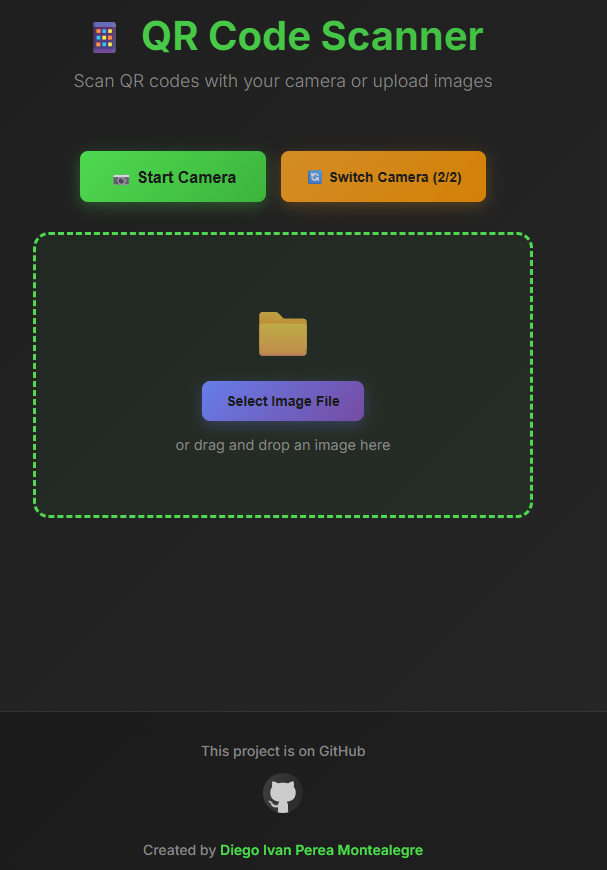
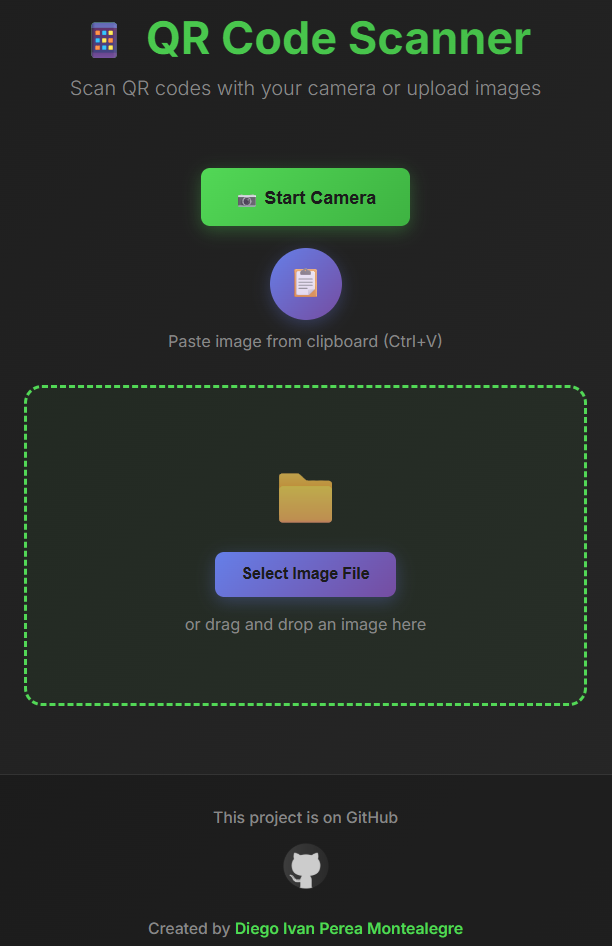
feat: added button pasting ctrl v

diff --git a/src/app/page.js b/src/app/page.js
@@ -23,6 +23,7 @@ const Home = () => {
   const [isDetectingDevices, setIsDetectingDevices] = useState(false);
   const [hasUserInteracted, setHasUserInteracted] = useState(false);
   const [stream, setStream] = useState(null);
+  const [isPasting, setIsPasting] = useState(false);
 
   const handleDevices = (mediaDevices) =>
     setDevices(mediaDevices.filter(({ kind }) => kind === "videoinput"));
@@ -129,6 +130,52 @@ const Home = () => {
   const handleFileUpload = (event) => {
     const file = event.target.files[0];
     processFile(file);
+  };
+
+  const pasteFromClipboard = async () => {
+    if (isPasting) return;
+    setIsPasting(true);
+    setError(null);
+
+    try {
+      if (!navigator.clipboard || !navigator.clipboard.read) {
+        throw new Error("Clipboard API not supported");
+      }
+
+      const clipboardItems = await navigator.clipboard.read();
+      let blob = null;
+
+      for (const item of clipboardItems) {
+        const imageType = item.types.find((type) =>
+          type.startsWith("image/")
+        );
+        if (imageType) {
+          blob = await item.getType(imageType);
+          break;
+        }
+      }
+
+      if (!blob) {
+        setError("No image found in clipboard. Copy an image first.");
+        return;
+      }
+
+      const file = new File([blob], "clipboard-image.png", {
+        type: blob.type || "image/png",
+      });
+      setSuccessMessage("📋 Image pasted from clipboard - Scanning...");
+      setTimeout(() => {
+        setSuccessMessage(null);
+      }, 2000);
+      processFile(file);
+    } catch (error) {
+      console.log("Clipboard error:", error);
+      setError(
+        "Clipboard access denied or not supported. Allow clipboard permission and try again."
+      );
+    } finally {
+      setIsPasting(false);
+    }
   };
 
   const detectDevicesOnUserInteraction = async () => {
@@ -388,6 +435,34 @@ const Home = () => {
     }
   }, [devices]);
 
+  useEffect(() => {
+    const handlePasteEvent = (event) => {
+      const items = event.clipboardData && event.clipboardData.items;
+      if (!items) return;
+
+      for (const item of items) {
+        if (item.type && item.type.startsWith("image/")) {
+          const file = item.getAsFile();
+          if (file) {
+            event.preventDefault();
+            setError(null);
+            setSuccessMessage("📋 Image pasted from clipboard - Scanning...");
+            setTimeout(() => {
+              setSuccessMessage(null);
+            }, 2000);
+            processFile(file);
+          }
+          break;
+        }
+      }
+    };
+
+    document.addEventListener("paste", handlePasteEvent);
+    return () => {
+      document.removeEventListener("paste", handlePasteEvent);
+    };
+  }, []);
+
   // Limpiar stream al desmontar
   useEffect(() => {
     return () => {
@@ -434,6 +509,21 @@ const Home = () => {
                   🔄 Switch Camera ({currentDeviceIndex + 1}/{devices.length})
                 </button>
               )}
+            </div>
+
+            <div className="clipboard-controls">
+              <button
+                className="clipboard-btn"
+                onClick={pasteFromClipboard}
+                disabled={isPasting}
+                aria-label="Paste image from clipboard"
+                title="Paste image from clipboard"
+              >
+                {isPasting ? "⏳" : "📋"}
+              </button>
+              <p className="clipboard-text">
+                Paste image from clipboard (Ctrl+V)
+              </p>
             </div>
 
             {isCameraOn && (

diff --git a/src/app/globals.css b/src/app/globals.css
@@ -351,6 +351,44 @@ button:disabled::before {
   opacity: 0.5;
 }
 
+.clipboard-controls {
+  display: flex;
+  flex-direction: column;
+  align-items: center;
+  justify-content: center;
+  gap: 10px;
+}
+
+.clipboard-btn {
+  width: 64px;
+  height: 64px;
+  padding: 0;
+  border-radius: 50%;
+  font-size: 26px;
+  background: linear-gradient(135deg, #667eea, #764ba2);
+  box-shadow: 0 4px 15px rgba(102, 126, 234, 0.3);
+  display: flex;
+  align-items: center;
+  justify-content: center;
+  line-height: 1;
+}
+
+.clipboard-btn:hover {
+  box-shadow: 0 6px 20px rgba(102, 126, 234, 0.45);
+}
+
+.clipboard-btn:disabled {
+  background: linear-gradient(135deg, #9e9e9e, #757575);
+  box-shadow: 0 2px 8px rgba(0, 0, 0, 0.2);
+}
+
+.clipboard-text {
+  margin: 0;
+  color: #888;
+  font-size: 0.9rem;
+  font-weight: 400;
+}
+
 .upload-btn {
   background: linear-gradient(135deg, #667eea, #764ba2);
   box-shadow: 0 4px 15px rgba(102, 126, 234, 0.3);
@@ -565,6 +603,16 @@ button:disabled::before {
     font-size: 15px;
   }
 
+  .clipboard-btn {
+    width: 56px;
+    height: 56px;
+    font-size: 22px;
+  }
+
+  .clipboard-text {
+    font-size: 0.8rem;
+  }
+
   .camera-view {
     border-radius: 12px;
   }
@@ -714,6 +762,12 @@ button:disabled::before {
     max-width: 260px;
     padding: 12px 16px;
     font-size: 14px;
+  }
+
+  .clipboard-btn {
+    width: 52px;
+    height: 52px;
+    font-size: 20px;
   }
 
   .camera-view {

diff --git a/AGENTS.md b/AGENTS.md
@@ -1,0 +1,46 @@
+# AGENTS.md
+
+## Project Overview
+
+QR Scanner is a Next.js web application that scans QR codes using different methods:
+
+- **Camera**: Live scanning via `react-webcam` with jsQR, detecting codes in real time.
+- **Image upload**: Select or drag-and-drop an image file to detect QR codes.
+- **Clipboard**: Paste a QR code image (circular `📋` button or `Ctrl+V`) to run the same analysis flow.
+
+## Tech Stack
+
+- Next.js 14 (App Router) + React 18
+- `react-webcam` — camera capture
+- `jsqr` — primary QR decoding (works on raw image data)
+- `qrcode-reader` — fallback decoder when jsQR fails
+- All logic lives in `src/app/page.js` (client component) with styles in `src/app/globals.css`
+
+## Structure
+
+- `src/app/page.js` — main page component with all scanner logic (camera, upload, clipboard)
+- `src/app/globals.css` — global styles (component classes, responsive media queries, animations)
+- `src/app/page.module.css` — empty/unused
+- `src/app/layout.js` — root layout with metadata
+- `src/app/icon.ico` — favicon
+
+## Key Flow
+
+`processFile(file)` is the shared analysis pipeline used by all input methods:
+
+1. Reads the image as a data URL.
+2. Draws it to a canvas and extracts `ImageData`.
+3. Tries `jsQR` first; if it fails, falls back to `qrcode-reader`.
+4. On success: shows a success message (auto-hides after 3s), stores the result, and opens the URL in a new tab.
+
+## Commands
+
+- `npm run dev` — start development server
+- `npm run build` — production build
+- `npm run start` — start production server
+- `npm run lint` — lint (currently broken: `.eslintrc.json` extends the invalid `next/babel` config; use `npm run build` to type-check instead)
+
+## Notes
+
+- Clipboard API (`navigator.clipboard.read()`) requires HTTPS or localhost and the `clipboard-read` permission. The `Ctrl+V` paste listener always works.
+- The lint configuration in `.eslintrc.json` (`extends: ["next/babel", ...]`) is invalid and should be fixed (e.g. use `next/core-web-vitals` only) if linting is needed.

diff --git a/README.md b/README.md
@@ -1,4 +1,4 @@
-# Qr Scanner
+# Qr Scanner 
 
 <p align="justify">
 Qr Scanner where you can scan with the camera (change camera) and be redirected to the scanned url and shown the url. Or you can also select the file or drag the file and be redirected to the scanned url and shown the url.
@@ -60,5 +60,18 @@ Put this code in .eslintrc.json
 }
 ```
 
+### 📄 License
+
+This project is licensed under the MIT License - see the [LICENSE](LICENSE) file for details.
+
+---
+
+## 👨💻 Author / Autor
+
+**Diego Ivan Perea Montealegre**
+
+- GitHub: [@diegoperea20](https://github.com/diegoperea20)
+
+---
 
 Created by [Diego Ivan Perea Montealegre](https://github.com/diegoperea20)
